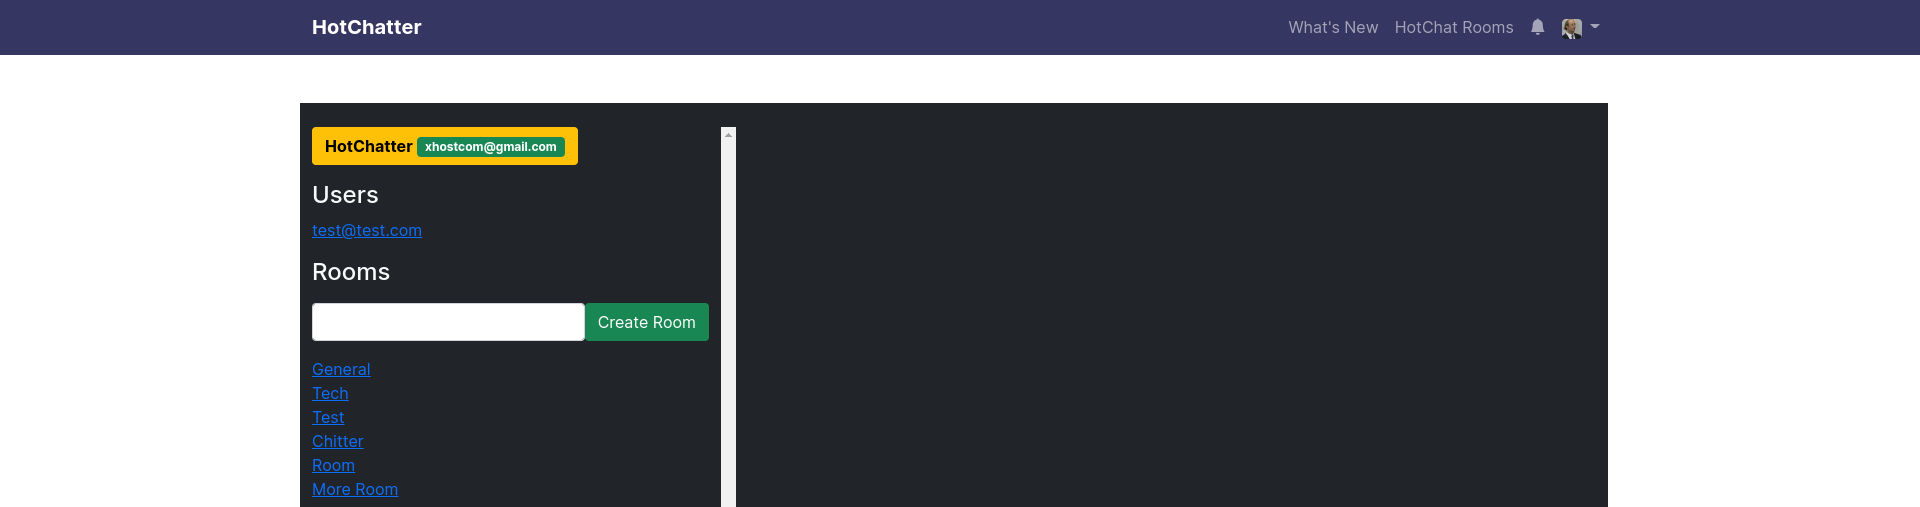
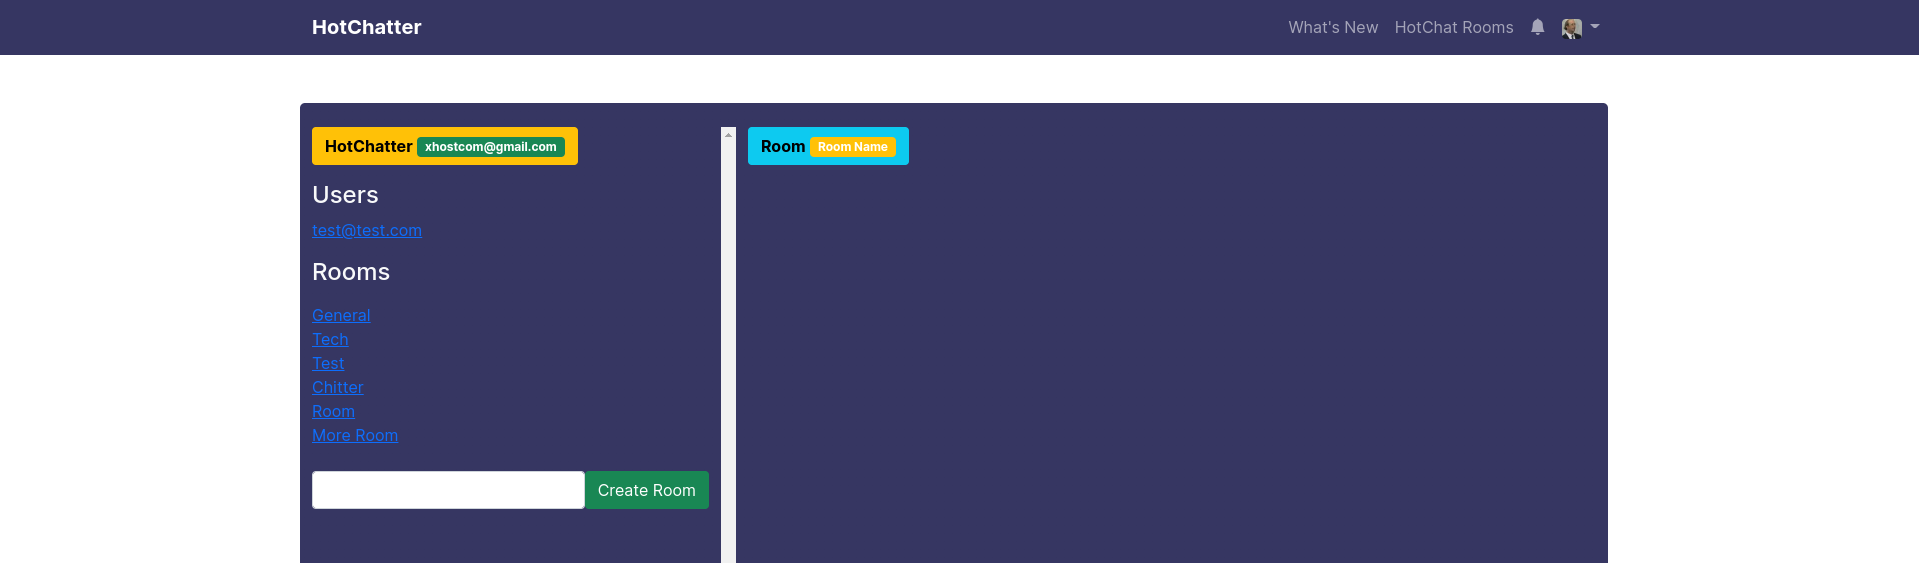
Update Styles

diff --git a/app/assets/stylesheets/application.bootstrap.scss b/app/assets/stylesheets/application.bootstrap.scss
@@ -7,12 +7,13 @@
 body {
   overflow: hidden;
 }
+.bg-custom {
+  background-image: linear-gradient(to top, #1e3c72 0%, #363662 1%, #363662 100%);
+
+}
 // Masquerade alert shouldn't have a bottom margin
 body > .alert {
   margin-bottom: 0;
-}
-.btn-secondary {
-  background_color: #363662!important;
 }
 .msg-form {
   width: 100%;

diff --git a/README.md b/README.md
@@ -1,4 +1,4 @@
-# rails 7 hotchat
+# rails 7 hotchatter
 
 Epic Ruby On Rails 7 chatroom app with PostgreSQL, Redis Caching, Bootstrap 5, Font Awesome 5, Devise, Notifications, Announcements, Rollup, Importmap, CSS Bundling, JS Bundling, Administrate, Hotwire, Stimulus JS GLightbox and Action Cable/Cable Ready & Request JS. 
 
